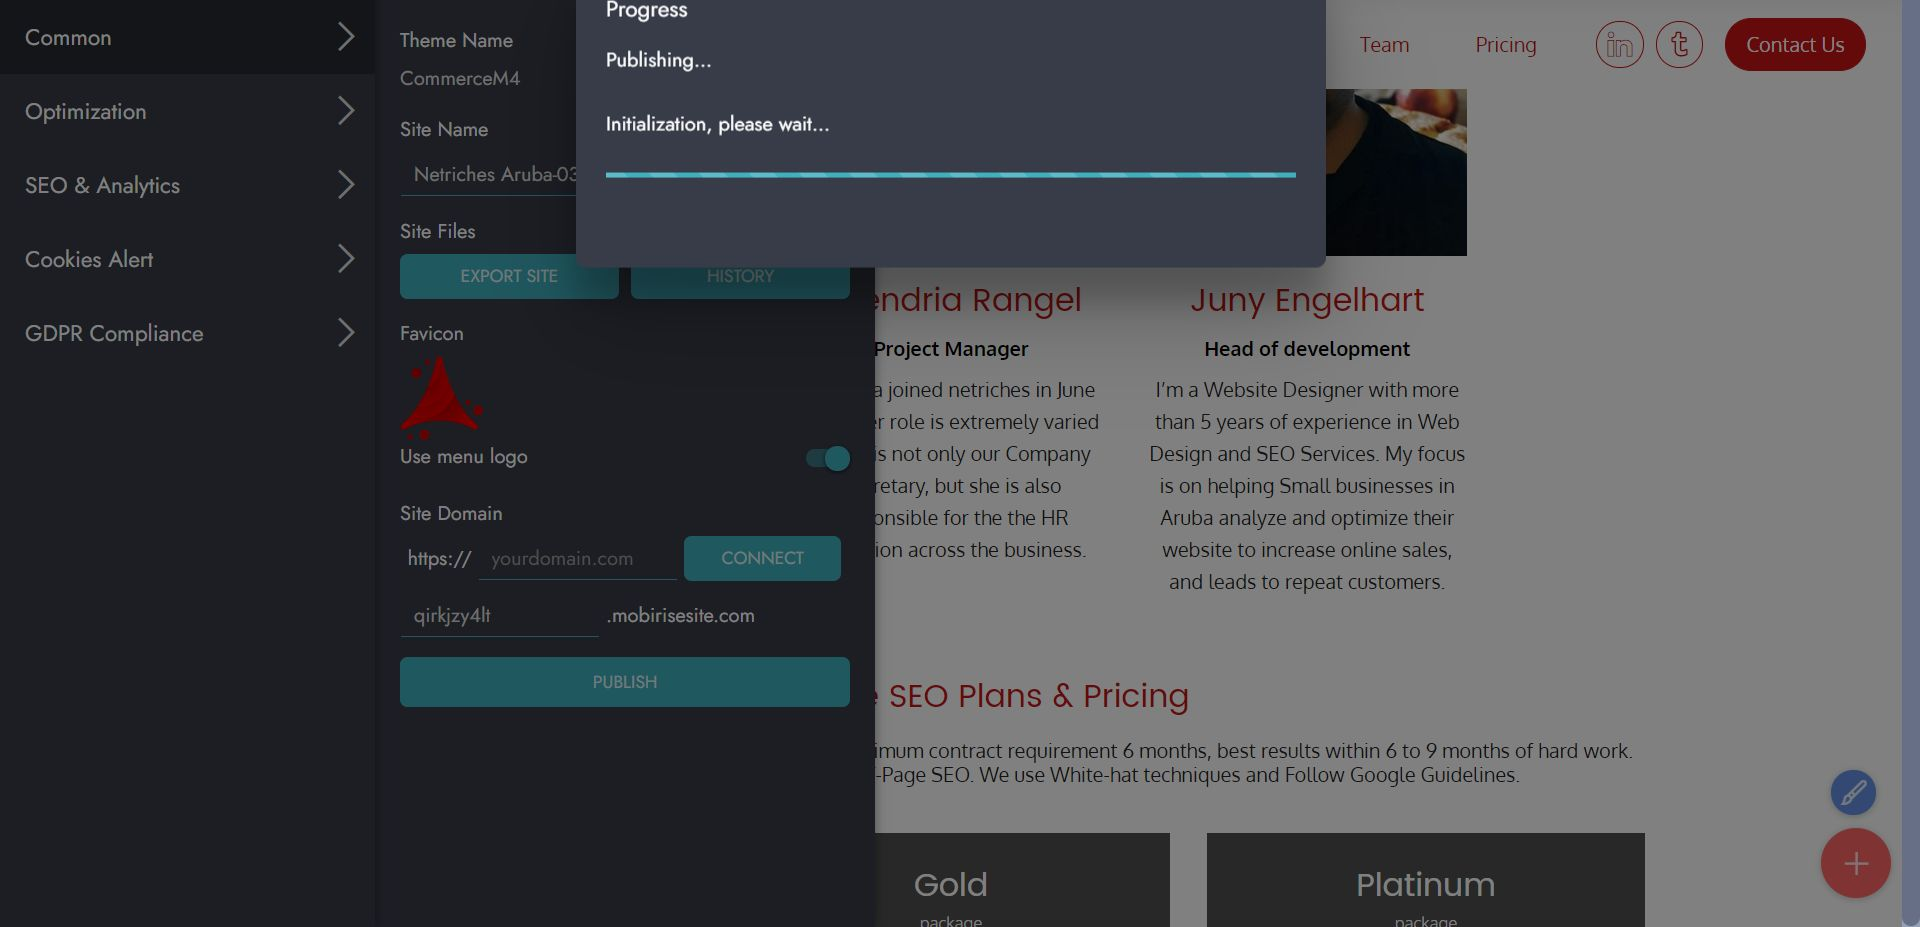
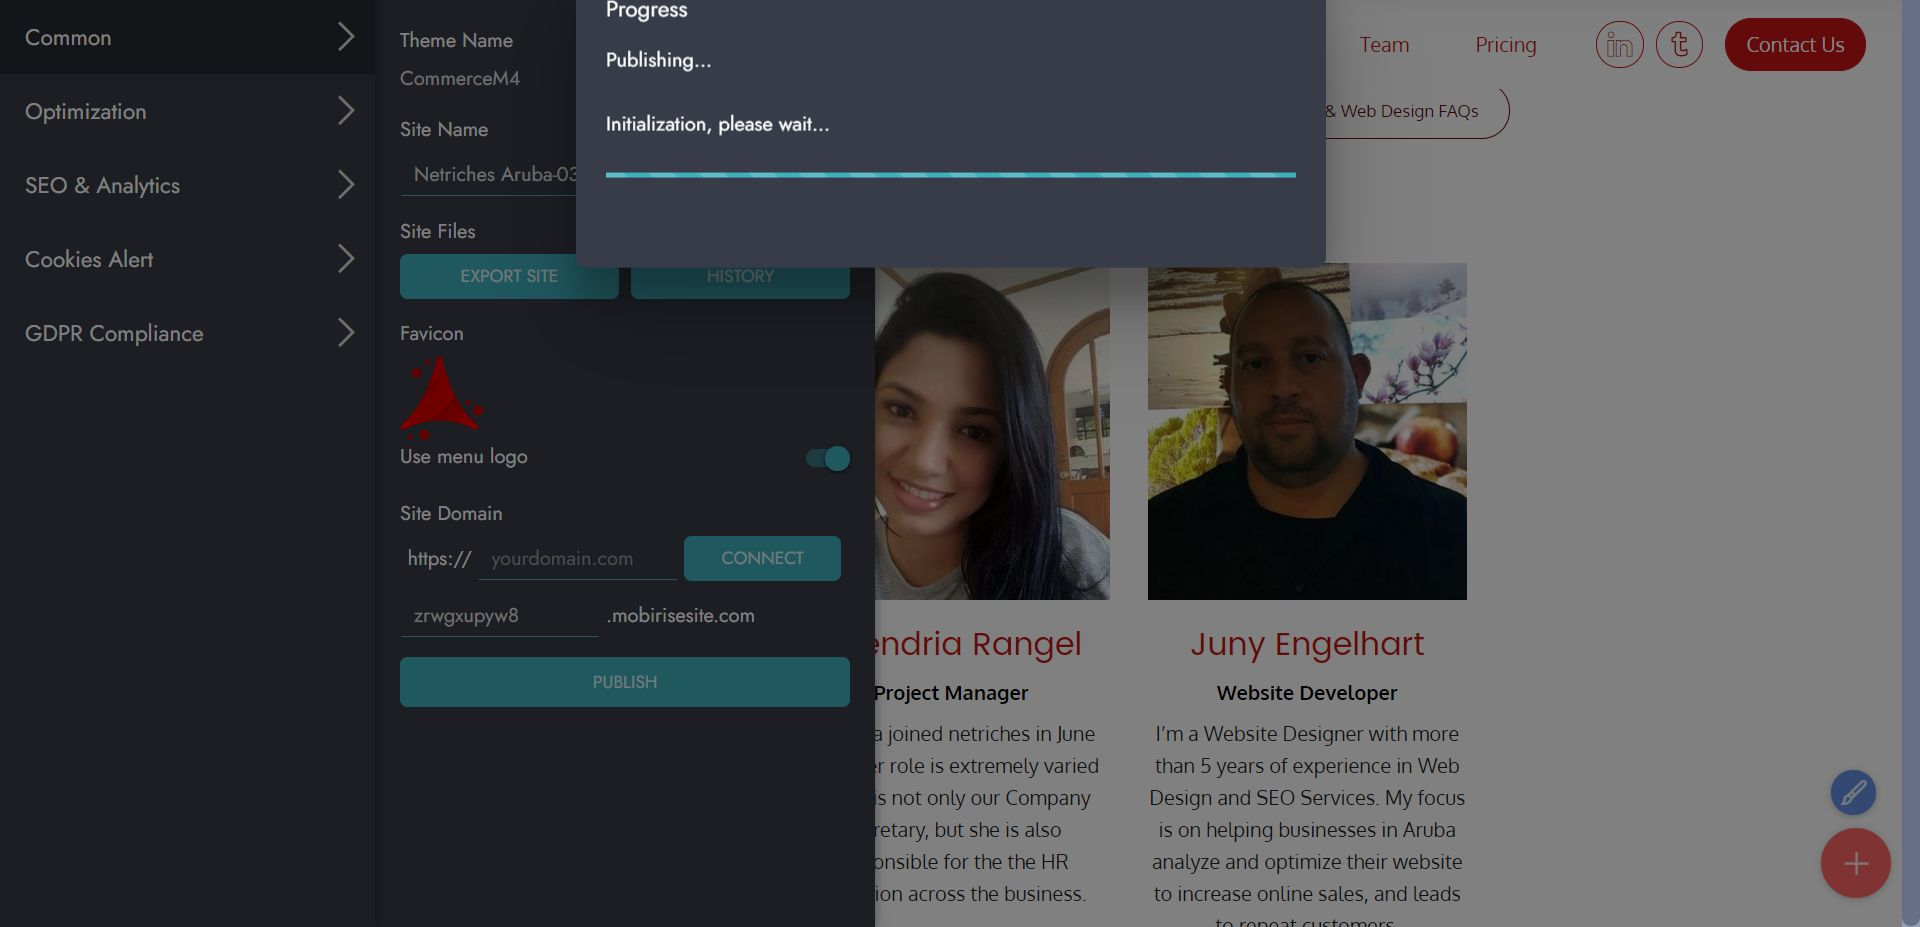
Meet the Team 2021

Changed region(s): [[0.4375, 0.0906, 0.875, 1.0], [0.2188, 0.6343, 0.25, 0.6947]]

diff --git a/index.html b/index.html
@@ -19,8 +19,8 @@
   <link rel="stylesheet" href="assets/simple-line-icons/simple-line-icons.css">
   <link rel="stylesheet" href="assets/web/assets/mobirise-icons/mobirise-icons.css">
   <link rel="stylesheet" href="assets/web/assets/mobirise-icons2/mobirise2.css">
-  <link rel="stylesheet" href="assets/font-awesome/css/font-awesome.css">
   <link rel="stylesheet" href="assets/icon54/style.css">
+  <link rel="stylesheet" href="assets/icon54-v3/style.css">
   <link rel="stylesheet" href="assets/bootstrap/css/bootstrap.min.css">
   <link rel="stylesheet" href="assets/bootstrap/css/bootstrap-grid.min.css">
   <link rel="stylesheet" href="assets/bootstrap/css/bootstrap-reboot.min.css">
@@ -417,17 +417,17 @@
                         <ul>
                             <li>
                                 <a class="icon-transition" href="https://www.facebook.com/theodore.e.richardson" target="_blank">
-                                    <span class="mbr-iconfont mbr-black socicon-facebook socicon"></span>
+                                    <span class="mbr-iconfont mbr-black socicon-facebook socicon" style="font-size: 25px;"></span>
                                 </a>
                             </li>
                             <li>
                                 <a class="icon-transition" href="https://twitter.com/californiaaruba" target="_blank">
-                                    <span class="mbr-iconfont mbr-black socicon-twitter socicon"></span>
+                                    <span class="mbr-iconfont mbr-black socicon-twitter socicon" style="font-size: 25px;"></span>
                                 </a>
                             </li>
                             <li>
                                 <a class="icon-transition" href="https://www.linkedin.com/in/theodore-richardson-15448b28" target="_blank">
-                                    <span class="mbr-iconfont mbr-black fa-linkedin-square fa"></span>
+                                    <span class="mbr-iconfont mbr-black icon54-v1-linkedin" style="font-size: 25px;"></span>
                                 </a>
                             </li>
                             
@@ -438,7 +438,7 @@
                     <div class="img-overlay"></div>
                 </div>
                 <h4 class="mbr-fonts-style mbr-name align-left pt-4 mbr-bold display-5"><span style="font-weight: normal;">Theodore Richardson</span></h4>
-                <h5 class="mbr-fonts-style mbr-role align-left pt-2 display-7"><strong>Founder &amp; Director</strong></h5>
+                <h5 class="mbr-fonts-style mbr-role align-left pt-2 display-7"><strong>Owner &amp; CEO</strong></h5>
                 <p class="mbr-fonts-style mbr-text align-left pt-1 display-7">Theodore leads our team of developers. He is a Certified Business Performance Coach, Serial entrepreneur in the local business space and has 10 years experience in online marketing.
                 </p>
             </div>
@@ -450,17 +450,17 @@
                         <ul>
                             <li>
                                 <a class="icon-transition" href="https://www.facebook.com/netrichesaruba" target="_blank">
-                                    <span class="mbr-iconfont mbr-black socicon-facebook socicon"></span>
+                                    <span class="mbr-iconfont mbr-black socicon-facebook socicon" style="font-size: 25px;"></span>
                                 </a>
                             </li>
                             <li>
                                 <a class="icon-transition" href="https://twitter.com/netrichesaruba" target="_blank">
-                                    <span class="mbr-iconfont mbr-black socicon-twitter socicon"></span>
+                                    <span class="mbr-iconfont mbr-black socicon-twitter socicon" style="font-size: 25px;"></span>
                                 </a>
                             </li>
                             <li>
                                 <a class="icon-transition" href="https://www.instagram.com/netrichesaruba/" target="_blank">
-                                    <span class="mbr-iconfont mbr-black socicon-instagram socicon"></span>
+                                    <span class="mbr-iconfont mbr-black socicon-instagram socicon" style="font-size: 25px;"></span>
                                 </a>
                             </li>
                             
@@ -477,23 +477,23 @@
             </div>
             <div class="col-md-6 col-lg-3 card-wrap">
                 <div class="image-wrap">
-                    <a href="https://www.juntechpc.ga/"><img src="assets/images/juny-engelhart-juntechpc-400x422.jpg" alt="JunTechPC-Aruba-Juny-Engelhart-Computer-Technician" title="Juny Engelhart - Netriches Aruba Web Designer &amp; SEO Expert "></a>
+                    <a href="https://www.juntechpc.ga/"><img src="assets/images/juny-engelhart-juntechpc-400x422.jpg" alt="Juny-Engelhart-Web-Design-SEO-Services-Aruba" title="Juny Engelhart - Netriches Aruba Web Designer &amp; SEO Expert "></a>
                     <div class="img-overlay"></div>
                     <div class="social-media align-center">
                         <ul>
                             <li>
                                 <a class="icon-transition" href="https://juntechpc.ga" target="_blank">
-                                    <span class="mbr-iconfont mbr-black icon54-v1-computer-network1"></span>
+                                    <span class="mbr-iconfont mbr-black icon54-v3-seo-webpage" style="font-size: 25px;"></span>
                                 </a>
                             </li>
                             <li>
                                 <a class="icon-transition" href="https://twitter.com/JUNTECHPC" target="_blank">
-                                    <span class="mbr-iconfont mbr-black socicon-twitter socicon"></span>
+                                    <span class="mbr-iconfont mbr-black socicon-twitter socicon" style="font-size: 25px;"></span>
                                 </a>
                             </li>
                             <li>
-                                <a class="icon-transition" href="https://juntech-pc.tumblr.com/" target="_blank">
-                                    <span class="mbr-iconfont mbr-black fa-tumblr-square fa"></span>
+                                <a class="icon-transition" href="https://www.facebook.com/juntechpc" target="_blank">
+                                    <span class="mbr-iconfont mbr-black icon54-v1-facebook-1" style="font-size: 25px;"></span>
                                 </a>
                             </li>
                             
@@ -503,9 +503,9 @@
                     </div>
                 </div>
                 <h4 class="mbr-fonts-style mbr-name align-left pt-4 mbr-bold display-5"><span style="font-weight: normal;">Juny Engelhart</span></h4>
-                <h5 class="mbr-fonts-style mbr-role align-left pt-2 display-7"><strong>Head of development</strong></h5>
+                <h5 class="mbr-fonts-style mbr-role align-left pt-2 display-7"><strong>Website Developer</strong></h5>
                 <p class="mbr-fonts-style mbr-text align-left pt-1 display-7">
-                      I’m a Website Designer with more than 5 years of experience in Web Design and SEO Services. My focus is on helping Small businesses in Aruba analyze and optimize their website to increase online sales, and leads to repeat customers.</p>
+                      I’m a Website Designer with more than 5 years of experience in Web Design and SEO Services. My focus is on helping businesses in Aruba analyze and optimize their website to increase online sales, and leads to repeat customers.</p>
             </div>
             
         </div>
@@ -779,7 +779,7 @@
             <div class="form-1 col-sm-12 col-md-5 col-xl-4 col-lg-3" data-form-type="formoid">
                 <h3 class="form-title pb-3 mbr-fonts-style align-center display-7">Feel free to reach out to us, we would be happy to discuss your SEO goals and what could be best for your website.</h3>
                 <div data-form-alert="" hidden="">Thank you for requesting a website audit. Your request has been submitted to our team successfully.</div>
[2 lines of base64/hex data omitted]
                     <div class="input-wrap" data-for="name">
                         <input type="text" class="field display-7" name="name" placeholder="Name" data-form-field="Name" required="" id="name-footer4-0">
                     </div>

diff --git a/online-marketing-netriches-aruba.html b/online-marketing-netriches-aruba.html
@@ -209,7 +209,7 @@
             <div class="section-text m-2">
                 <p class="mbr-text mbr-black mb-0 mbr-fonts-style display-7">© Copyright 2021 Netriches Aruba</p>
             </div>
-            
+            <div class="mbr-section-btn align-center"><a href="https://mobirise.com" class="btn btn-black display-4">Let's try it!</a></div>
         </div>
     </div>
 </section>

diff --git a/seo-services-netriches-aruba.html b/seo-services-netriches-aruba.html
@@ -325,7 +325,7 @@
             <div class="section-text m-2">
                 <p class="mbr-text mbr-black mb-0 mbr-fonts-style display-7">© Copyright 2021 Netriches Aruba</p>
             </div>
-            
+            <div class="mbr-section-btn align-center"><a href="https://mobirise.com" class="btn btn-black display-4">Let's try it!</a></div>
         </div>
     </div>
 </section>

diff --git a/web-design-netriches-aruba.html b/web-design-netriches-aruba.html
@@ -281,7 +281,7 @@
             <div class="section-text m-2">
                 <p class="mbr-text mbr-black mb-0 mbr-fonts-style display-7">© Copyright 2021 Netriches Aruba</p>
             </div>
-            
+            <div class="mbr-section-btn align-center"><a href="https://mobirise.com" class="btn btn-black display-4">Let's try it!</a></div>
         </div>
     </div>
 </section>
